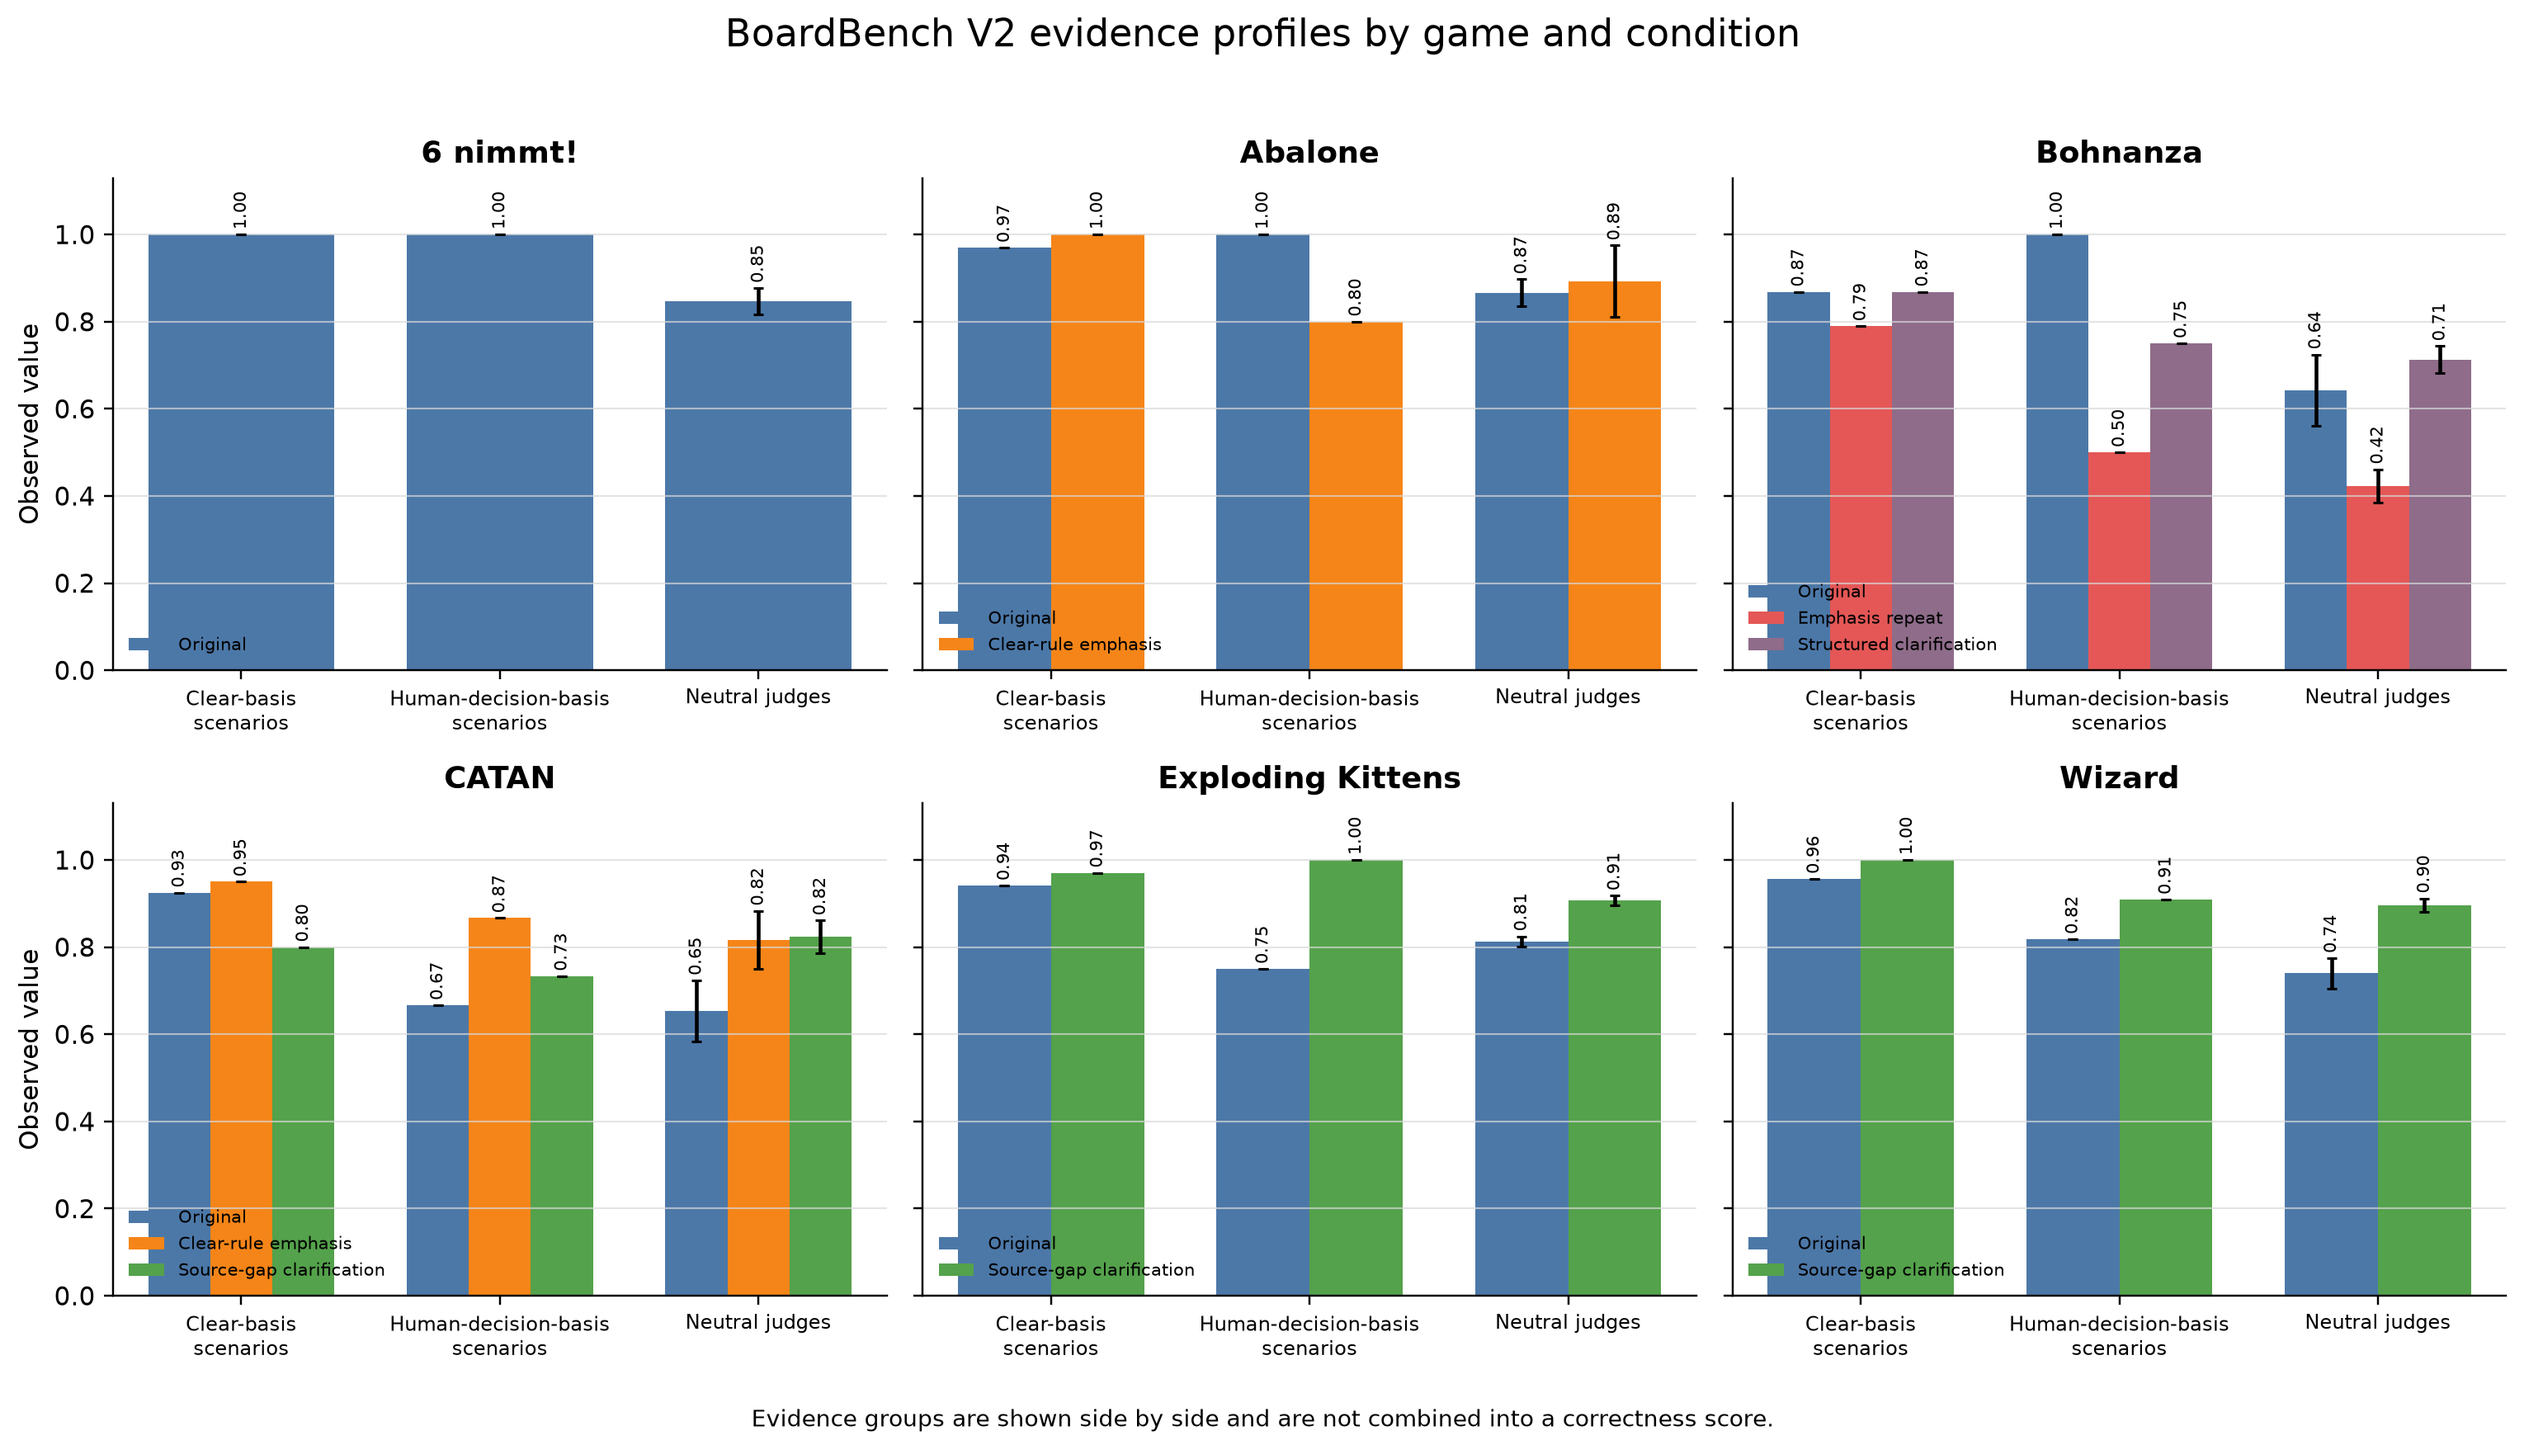
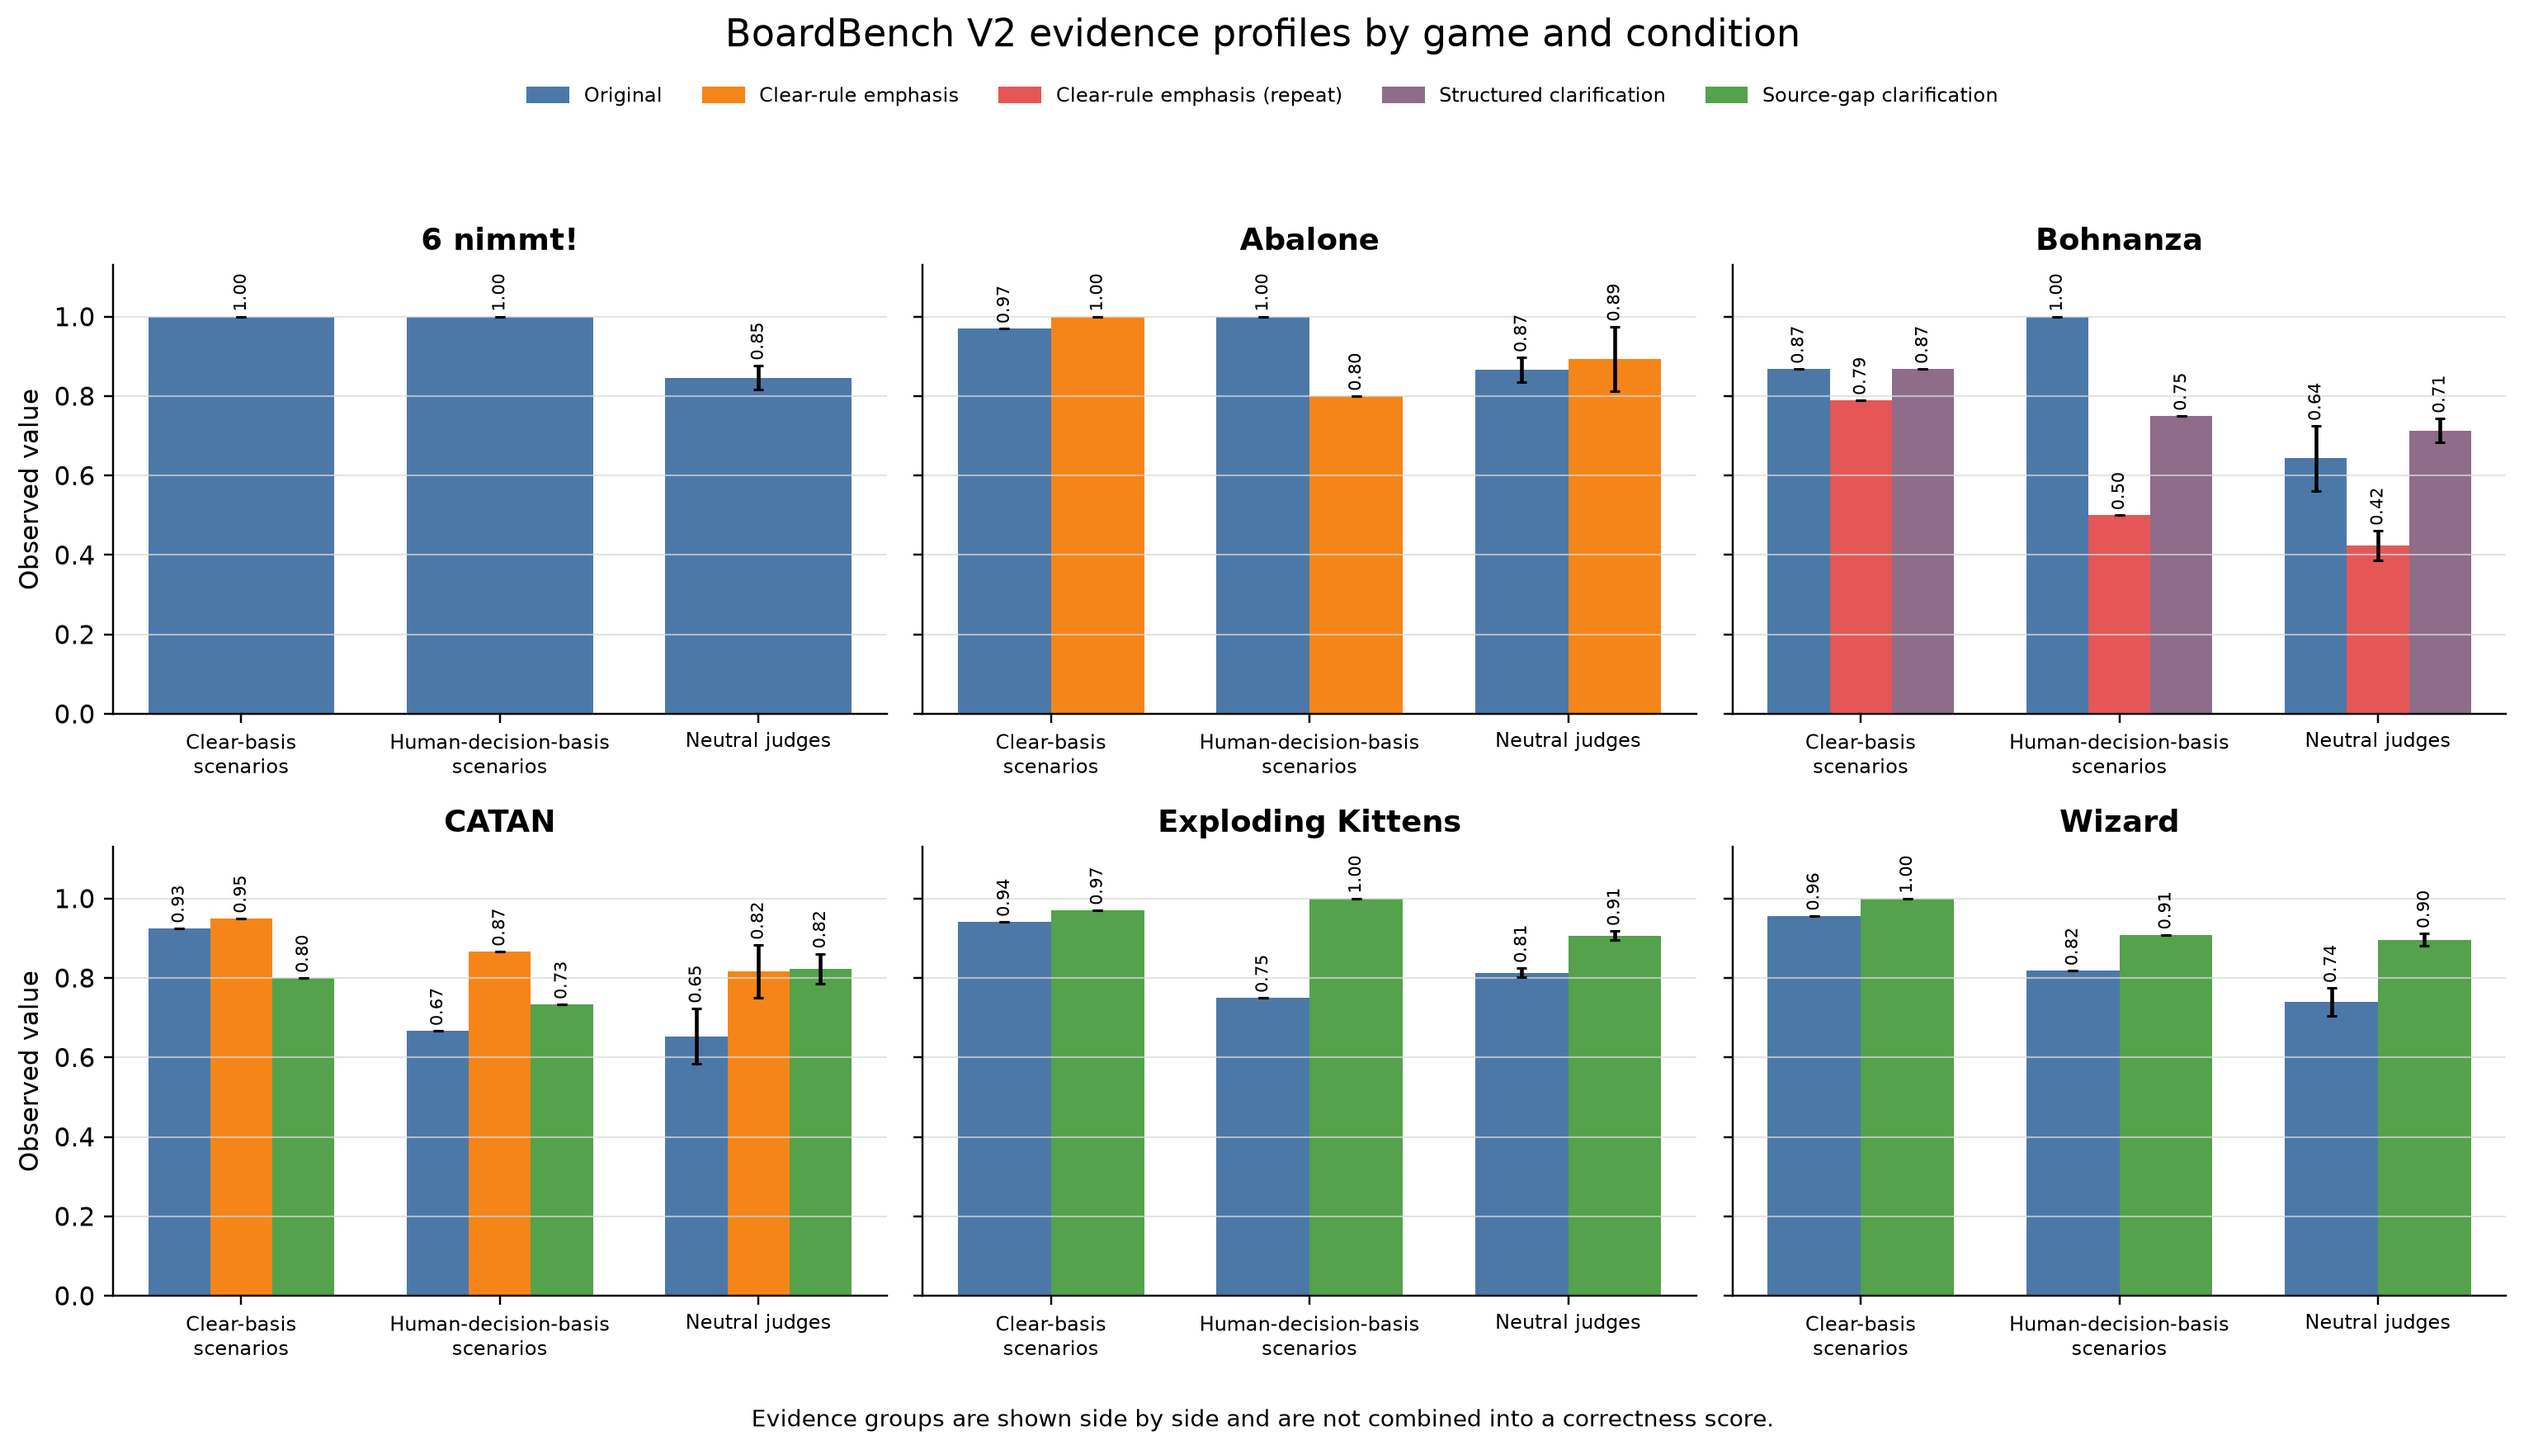
add thesis progress
Per-game overview plots, shared legend cleanup, and meeting 7.8 question updates.

diff --git a/generation/plot_thesis_overview.py b/generation/plot_thesis_overview.py
@@ -8,6 +8,7 @@ from pathlib import Path
 
 import matplotlib.pyplot as plt
 import numpy as np
+from matplotlib.patches import Patch
 
 ROOT = Path(__file__).resolve().parents[1]
 OUTPUT = ROOT / "results" / "plots" / "overview" / "v2"
@@ -19,9 +20,17 @@ METRICS = (
 COLORS = {
     "Original": "#4C78A8",
     "Clear-rule emphasis": "#F58518",
-    "Emphasis repeat": "#E45756",
+    "Clear-rule emphasis (repeat)": "#E45756",
     "Structured clarification": "#8E6C8A",
     "Source-gap clarification": "#54A24B",
+}
+FILE_NAMES = {
+    "6 nimmt!": "6_nimmt",
+    "Abalone": "abalone",
+    "Bohnanza": "bohnanza",
+    "CATAN": "catan",
+    "Exploding Kittens": "exploding_kittens",
+    "Wizard": "wizard",
 }
 GAMES = {
     "6 nimmt!": [
@@ -33,7 +42,7 @@ GAMES = {
     ],
     "Bohnanza": [
         ("Original", "results/scores/bohnanza_base_2023/v2/original_result.json"),
-        ("Emphasis repeat", "results/scores/bohnanza_base_2023/v2/clear_rule_emphasis_2_result.json"),
+        ("Clear-rule emphasis (repeat)", "results/scores/bohnanza_base_2023/v2/clear_rule_emphasis_2_result.json"),
         ("Structured clarification", "results/scores/bohnanza_base_2023/v2/structured_clarification_1_result.json"),
     ],
     "CATAN": [
@@ -71,32 +80,47 @@ def judge_sd(result: dict) -> float:
     return float(result["review_evidence"]["neutral_judges"].get("sample_sd") or 0)
 
 
-def profiles() -> None:
-    fig, axes = plt.subplots(2, 3, figsize=(14, 8), sharey=True)
+def draw_profile(ax, game: str, conditions: list[tuple[str, str]], label_size: int = 7) -> None:
     x = np.arange(len(METRICS))
+    width = 0.72 / len(conditions)
+    for index, (label, path) in enumerate(conditions):
+        result = load(path)
+        row = [value(result, key) for _, key in METRICS]
+        offset = (index - (len(conditions) - 1) / 2) * width
+        bars = ax.bar(x + offset, row, width, label=label, color=COLORS[label], yerr=[0, 0, judge_sd(result)], capsize=2)
+        ax.bar_label(bars, labels=[f"{v:.2f}" for v in row], padding=2, fontsize=label_size, rotation=90)
+    ax.set_title(game, fontweight="bold")
+    ax.set_xticks(x, [label for label, _ in METRICS], fontsize=8)
+    ax.set_ylim(0, 1.13)
+    ax.grid(axis="y", color="#D9D9D9", linewidth=0.7, alpha=0.7)
+    ax.spines[["top", "right"]].set_visible(False)
+
+
+def profiles() -> None:
+    OUTPUT.mkdir(parents=True, exist_ok=True)
+    fig, axes = plt.subplots(2, 3, figsize=(14, 8), sharey=True)
     for ax, (game, conditions) in zip(axes.flat, GAMES.items()):
-        width = 0.72 / len(conditions)
-        for index, (label, path) in enumerate(conditions):
-            result = load(path)
-            row = [value(result, key) for _, key in METRICS]
-            offset = (index - (len(conditions) - 1) / 2) * width
-            errors = [0, 0, judge_sd(result)]
-            bars = ax.bar(x + offset, row, width, label=label, color=COLORS[label], yerr=errors, capsize=2)
-            ax.bar_label(bars, labels=[f"{v:.2f}" for v in row], padding=2, fontsize=7, rotation=90)
-        ax.set_title(game, fontweight="bold")
-        ax.set_xticks(x, [label for label, _ in METRICS], fontsize=8)
-        ax.set_ylim(0, 1.13)
-        ax.grid(axis="y", color="#D9D9D9", linewidth=0.7, alpha=0.7)
-        ax.spines[["top", "right"]].set_visible(False)
-        ax.legend(frameon=False, fontsize=7, loc="lower left")
+        draw_profile(ax, game, conditions)
     axes[0, 0].set_ylabel("Observed value")
     axes[1, 0].set_ylabel("Observed value")
+    handles = [Patch(color=color, label=label) for label, color in COLORS.items()]
     fig.suptitle("BoardBench V2 evidence profiles by game and condition", fontsize=15)
+    fig.legend(handles=handles, loc="upper center", bbox_to_anchor=(0.5, 0.945), ncol=len(handles), frameon=False, fontsize=8)
     fig.text(0.5, 0.01, "Evidence groups are shown side by side and are not combined into a correctness score.", ha="center", fontsize=9)
-    fig.tight_layout(rect=(0, 0.035, 1, 0.96))
-    OUTPUT.mkdir(parents=True, exist_ok=True)
+    fig.tight_layout(rect=(0, 0.035, 1, 0.90))
     fig.savefig(OUTPUT / "evidence_profiles.png", dpi=220, bbox_inches="tight")
     plt.close(fig)
+
+    for game, conditions in GAMES.items():
+        fig, ax = plt.subplots(figsize=(7, 4.5))
+        draw_profile(ax, game, conditions, label_size=9)
+        ax.set_ylabel("Observed value")
+        handles, labels = ax.get_legend_handles_labels()
+        fig.legend(handles, labels, frameon=False, fontsize=8, loc="lower center", bbox_to_anchor=(0.5, 0.055), ncol=len(labels))
+        fig.text(0.5, 0.005, "Separate evidence groups; no combined correctness score.", ha="center", fontsize=8)
+        fig.tight_layout(rect=(0, 0.14, 1, 1))
+        fig.savefig(OUTPUT / f"{FILE_NAMES[game]}.png", dpi=220, bbox_inches="tight")
+        plt.close(fig)
 
 
 def deltas() -> None:

diff --git a/generation/test_plot_thesis_overview.py b/generation/test_plot_thesis_overview.py
@@ -10,7 +10,10 @@ class ThesisOverviewPlotTest(unittest.TestCase):
     def test_all_curated_results_render(self):
         with tempfile.TemporaryDirectory() as directory, patch.object(plots, "OUTPUT", Path(directory)):
             plots.main()
-            for name in ("evidence_profiles.png", "intervention_deltas.png"):
+            names = ["evidence_profiles.png", "intervention_deltas.png"] + [
+                f"{name}.png" for name in plots.FILE_NAMES.values()
+            ]
+            for name in names:
                 self.assertGreater((Path(directory) / name).stat().st_size, 10_000)
 
 

diff --git a/results/plots/overview/v2/README.md b/results/plots/overview/v2/README.md
@@ -2,8 +2,11 @@
 
 Generated by `generation/plot_thesis_overview.py` from the committed schema-v2 result cards.
 
-- `evidence_profiles.png`: all current V2 games and retained conditions. Clear-basis scenarios, human-decision-basis scenarios, and neutral judge means remain separate; judge error bars show sample SD (`n=3`).
-- `intervention_deltas.png`: each retained intervention minus its game's original V2 run, again in three separate panels. These are observed changes from single adapted runs, not causal estimates or independent replications.
+- `evidence_profiles.png`: all current V2 games and retained conditions with one shared legend.
+- `<game>.png`: one standalone profile for each game with its local legend.
+- `intervention_deltas.png`: each retained intervention minus its game's original V2 run, in three separate panels.
+
+Clear-basis scenarios, human-decision-basis scenarios, and neutral judge means remain separate; judge error bars show sample SD (`n=3`). Deltas are observed changes from single adapted runs, not causal estimates or independent replications.
 
 The curated mapping intentionally uses CATAN's evaluator-r3/Judge-packet-r2 cards and includes Bohnanza's retained emphasis repeat and structured clarification. `6 nimmt!` has no intervention condition.
 
